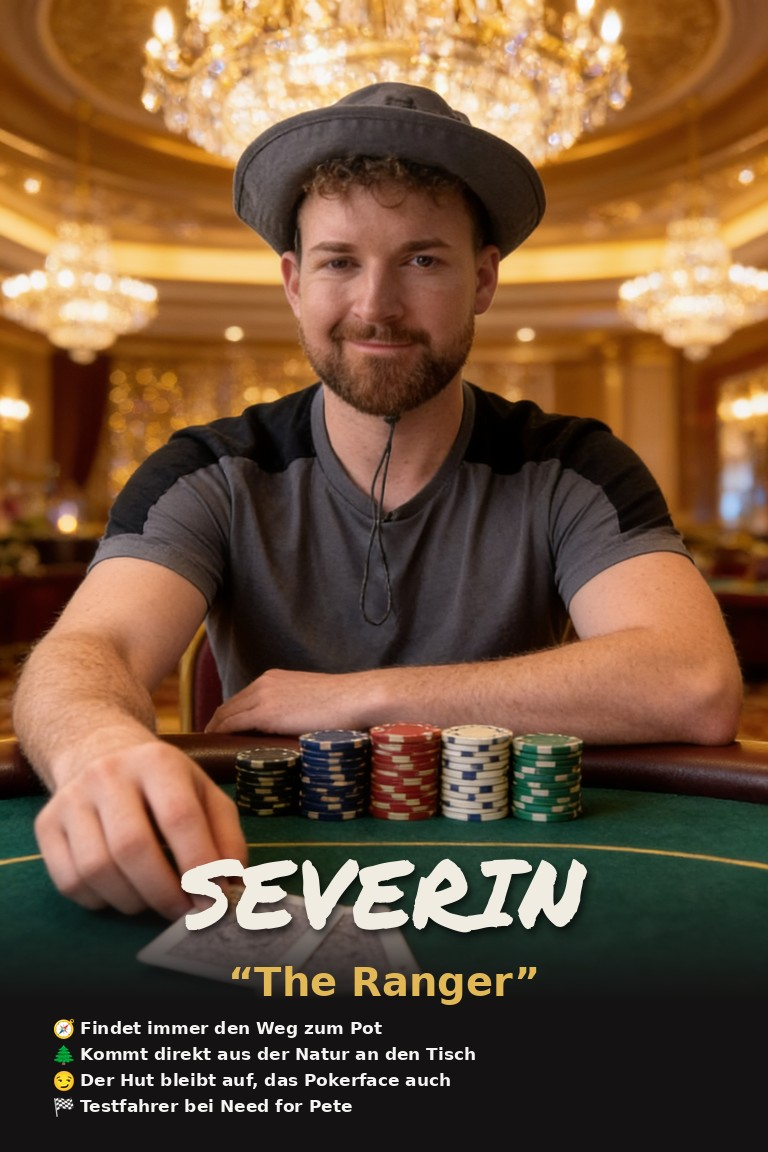
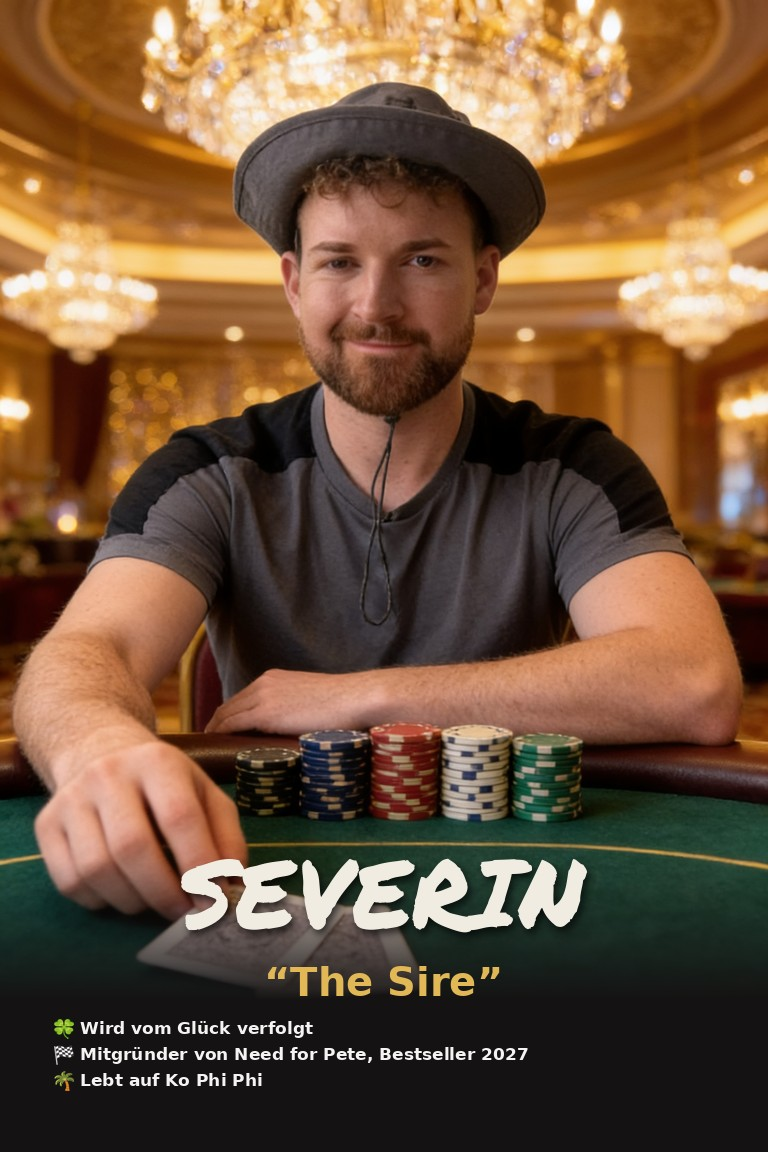
Severin: Karte mit Spitzname The Sire und neuen Texten (#125)
Claude-Session: https://claude.ai/code/session_01AgPGxrVrwaj4aUjDabegHY

Changed region(s): [[0.0625, 0.8125, 0.6875, 0.9688]]

diff --git a/tafel/index.html b/tafel/index.html
@@ -1468,7 +1468,7 @@ const ANN_TTS={"intro":"Ladies and Gentlemen! Willkommen im Blue Chip Club! Heut
  "niklas":"Der Vizemeister vom Monday Classic. The Bluffer. Nikiii!","niki":"Der Vizemeister vom Monday Classic. The Bluffer. Nikiii!",
  "jonny":"Er kommt mit dem Cabrio vorgefahren. Jonnyyy!","jonas":"Er kommt mit dem Cabrio vorgefahren. Jonnyyy!",
  "dede":"Zum ersten Mal im Blue Chip Club. Dedeee!","p. diddy":"Er bringt die Party an den Tisch. P. Diddyyy!","alex":"Er bringt die Party an den Tisch. P. Diddyyy!",
- "philipp":"Ruhig, geduldig, gefährlich. Philippp!","linus":"Zum ersten Mal im Blue Chip Club. Linuuus!","max":"Zum ersten Mal im Blue Chip Club. Maaax!","severin":"The Ranger ist am Tisch. Severiiin!","tobi":"Der Vizemeister vom zweiten Weekly Standard ist zurück. Tobiii!",
+ "philipp":"Ruhig, geduldig, gefährlich. Philippp!","linus":"Zum ersten Mal im Blue Chip Club. Linuuus!","max":"Zum ersten Mal im Blue Chip Club. Maaax!","severin":"The Sire ist am Tisch. Severiiin!","tobi":"Der Vizemeister vom zweiten Weekly Standard ist zurück. Tobiii!",
  "magg":"Der Champion vom Monday Classic. The Poet. Maggg!","oli":"Two Pair Oli!","domi c":"The Ace Factory. Domiii!"};
 const ANN_FILE={"niklas":null,"niki":null};   /* niklas.mp3 ist noch die Geburtstags-Ansage vom 01.11. */
 const annFor=n=>{const k=String(n||"").toLowerCase().trim();if(k in ANN_FILE&&ANN_FILE[k]===null)return ANN_TTS[k]?"tts:"+ANN_TTS[k]:null;return ANNS[k]||(ANN_TTS[k]?"tts:"+ANN_TTS[k]:null);};

diff --git a/tafel/vorschau.html b/tafel/vorschau.html
@@ -1467,7 +1467,7 @@ const ANN_TTS={"intro":"Ladies and Gentlemen! Willkommen im Blue Chip Club! Heut
  "niklas":"Der Vizemeister vom Monday Classic. The Bluffer. Nikiii!","niki":"Der Vizemeister vom Monday Classic. The Bluffer. Nikiii!",
  "jonny":"Er kommt mit dem Cabrio vorgefahren. Jonnyyy!","jonas":"Er kommt mit dem Cabrio vorgefahren. Jonnyyy!",
  "dede":"Zum ersten Mal im Blue Chip Club. Dedeee!","p. diddy":"Er bringt die Party an den Tisch. P. Diddyyy!","alex":"Er bringt die Party an den Tisch. P. Diddyyy!",
- "philipp":"Ruhig, geduldig, gefährlich. Philippp!","linus":"Zum ersten Mal im Blue Chip Club. Linuuus!","max":"Zum ersten Mal im Blue Chip Club. Maaax!","severin":"The Ranger ist am Tisch. Severiiin!","tobi":"Der Vizemeister vom zweiten Weekly Standard ist zurück. Tobiii!",
+ "philipp":"Ruhig, geduldig, gefährlich. Philippp!","linus":"Zum ersten Mal im Blue Chip Club. Linuuus!","max":"Zum ersten Mal im Blue Chip Club. Maaax!","severin":"The Sire ist am Tisch. Severiiin!","tobi":"Der Vizemeister vom zweiten Weekly Standard ist zurück. Tobiii!",
  "magg":"Der Champion vom Monday Classic. The Poet. Maggg!","oli":"Two Pair Oli!","domi c":"The Ace Factory. Domiii!"};
 const ANN_FILE={"niklas":null,"niki":null};   /* niklas.mp3 ist noch die Geburtstags-Ansage vom 01.11. */
 const annFor=n=>{const k=String(n||"").toLowerCase().trim();if(k in ANN_FILE&&ANN_FILE[k]===null)return ANN_TTS[k]?"tts:"+ANN_TTS[k]:null;return ANNS[k]||(ANN_TTS[k]?"tts:"+ANN_TTS[k]:null);};
